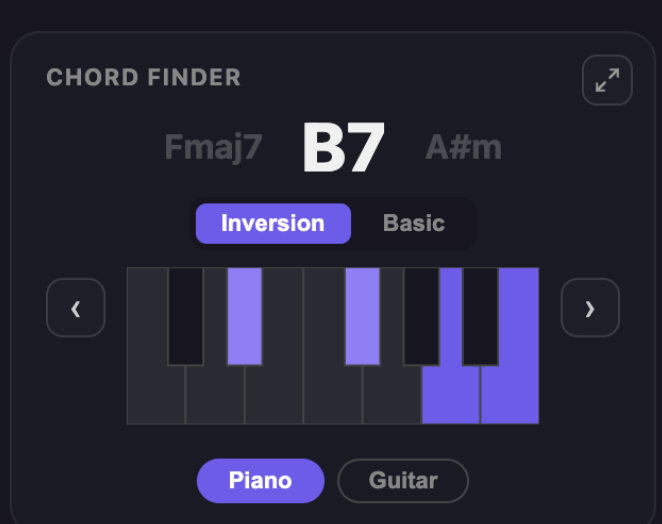
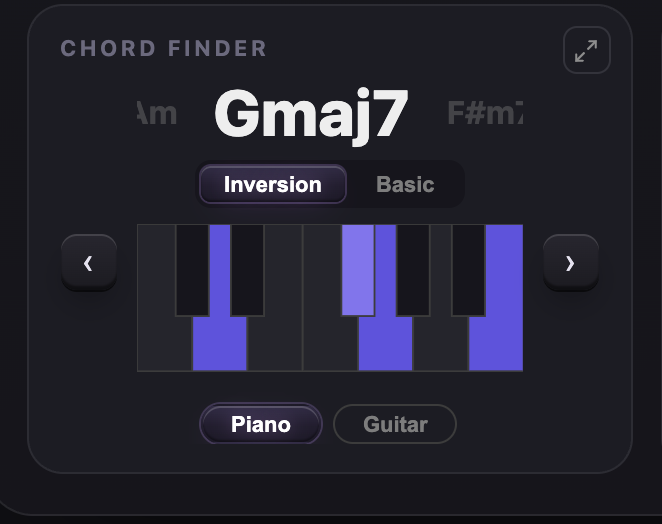
site: vitrin görselleri yeni arayüzden yeniden kırpıldı (6 dil)
"Yakından Bakış" bölümündeki 4 görsel hâlâ eski arayüzü gösteriyordu.
Yeni app-screenshot.png'den birebir kırpıldı (devirdeki kural: uygulama
ekranı için görsel ÜRETME, gerçek arayüzden kırp).

ÖLÇÜLER KASITLI OLARAK AYNI TUTULDU — bpm.png 2017x118, record.png
2017x126, chords.png 662x524, tempo.png 662x477. Sebep: BPM blog yazısı
bpm.png'yi gömüyor ve width/height özniteliği yazıyor; ölçü değişseydi
6 dilde düzen kayardı.

METİN GÜNCELLEMELERİ (görseldeki değerler değişti: 65->103 BPM, B7->Gmaj7):
- ana sayfa alt metinleri 6 dilde + tools/prerender-lang.py FEATURE_ALTS
- BPM blog yazısı 6 dilde: gömülü görseli anlatan "(örneğin 65 BPM)" ve
  bpm/tempo alt metinleri 103'e çekildi
- DOKUNULMADI: aynı yazıdaki "140 BPM'lik şarkı 70 okunabilir, 65 BPM'lik
  balad 130" ve "65 BPM'lik şarkı 32-33'e iner" — bunlar görselle ilgili
  değil, yarım/iki kat tempo anlatımı
- record alt'ındaki "kayıt dalga formu" ifadesi kaldırıldı: yeni karede
  kayıt kanalı boş (bu makinede hiç kayıt yok), dalga formu görünmüyor

Dil tuzakları: DE "65-BPM-Anzeige" tireli yazılmış, IT alt'ı .py içinde
kesme işareti kaçışlı, FR metni tahminimden farklıymış — üçü de
gerçek biçimleriyle düzeltildi.

Render: 1440 ve 375'te doğrulandı; şerit kendi kutusunda kayıyor,
sayfa taşması yok, 4 görsel de yükleniyor.

diff --git a/fr/index.html b/fr/index.html
@@ -226,26 +226,26 @@
 
   <div class="showcase-list">
     <div class="showcase-row">
-      <div class="showcase-scroll"><img src="/assets/features/bpm.png" loading="lazy" alt="Grille de tempo de VoxoMix : le BPM de la chanson est détecté automatiquement, les temps sont alignés sur une grille, avec des boutons demi et double vitesse et un affichage de 65 BPM"></div>
+      <div class="showcase-scroll"><img src="/assets/features/bpm.png" loading="lazy" alt="Grille de tempo de VoxoMix : le BPM de la chanson est détecté automatiquement, les temps sont alignés sur une grille, avec des boutons demi et double vitesse et un affichage de 103 BPM"></div>
       <h3 data-i18n="showcase.bpm.title">BPM automatique et analyse du rythme</h3>
       <p data-i18n="showcase.bpm.desc">Vous n'avez pas à battre le tempo vous-même. VoxoMix trouve le BPM dès le chargement du morceau et aligne les temps sur une grille : le métronome tourne au tempo de la chanson.</p>
     </div>
 
     <div class="showcase-pair">
       <div class="showcase-card">
-        <img src="/assets/features/chords.png" loading="lazy" alt="Recherche d'accords de VoxoMix : l'accord joué affiché en grand (B7), les accords précédent et suivant à côté, les notes surlignées sur un clavier de piano et un sélecteur entre positions de piano et de guitare">
+        <img src="/assets/features/chords.png" loading="lazy" alt="Recherche d'accords de VoxoMix : l'accord joué affiché en grand (Gmaj7), les accords précédent et suivant à côté, les notes surlignées sur un clavier de piano et un sélecteur entre positions de piano et de guitare">
         <h3 data-i18n="showcase.chords.title">Voyez les accords en grand : piano et guitare</h3>
         <p data-i18n="showcase.chords.desc">Les accords défilent pendant la lecture et celui qui arrive s'affiche en grand. Passez des positions de piano à celles de guitare d'un seul geste et agrandissez le panneau des accords en plein écran : il reste lisible de loin pendant que vous jouez.</p>
       </div>
       <div class="showcase-card">
-        <img src="/assets/features/tempo.png" loading="lazy" alt="Panneau métronome de VoxoMix : affichage 65 BPM avec boutons plus et moins et options de vitesse 0,5x, 1x et 2x">
+        <img src="/assets/features/tempo.png" loading="lazy" alt="Panneau métronome de VoxoMix : affichage 103 BPM avec boutons plus et moins et options de vitesse 0,5x, 1x et 2x">
         <h3 data-i18n="showcase.tempo.title">Ralentissez le tempo et jouez tranquillement</h3>
         <p data-i18n="showcase.tempo.desc">Passez le passage difficile à 0,5x pour que vos doigts suivent. La hauteur de la chanson ne bouge pas, et vous revenez à 1x quand vous vous sentez prêt.</p>
       </div>
     </div>
 
     <div class="showcase-row">
-      <div class="showcase-scroll"><img src="/assets/features/record.png" loading="lazy" alt="Piste d'enregistrement de VoxoMix : enregistrez votre prise par-dessus la chanson, suivez-vous au casque, avec la forme d'onde enregistrée et des boutons supprimer et télécharger"></div>
+      <div class="showcase-scroll"><img src="/assets/features/record.png" loading="lazy" alt="Piste d'enregistrement de VoxoMix : enregistrez votre prise par-dessus la chanson, suivez-vous au casque, avec les boutons enregistrer, supprimer et télécharger"></div>
       <h3 data-i18n="showcase.record.title">Enregistrez ce que vous jouez et réécoutez</h3>
       <p data-i18n="showcase.record.desc">Enregistrez votre propre prise par-dessus la chanson. Suivez-vous au casque pendant que vous jouez, réécoutez à la fin, puis supprimez et recommencez si vous voulez.</p>
     </div>

diff --git a/de/index.html b/de/index.html
@@ -226,26 +226,26 @@
 
   <div class="showcase-list">
     <div class="showcase-row">
-      <div class="showcase-scroll"><img src="/assets/features/bpm.png" loading="lazy" alt="Tempo-Raster von VoxoMix: Das BPM des Songs wird automatisch erkannt, die Beats liegen auf einem Raster, mit Tasten für halbe und doppelte Geschwindigkeit und einer 65-BPM-Anzeige"></div>
+      <div class="showcase-scroll"><img src="/assets/features/bpm.png" loading="lazy" alt="Tempo-Raster von VoxoMix: Das BPM des Songs wird automatisch erkannt, die Beats liegen auf einem Raster, mit Tasten für halbe und doppelte Geschwindigkeit und einer 103-BPM-Anzeige"></div>
       <h3 data-i18n="showcase.bpm.title">Automatisches BPM und Rhythmusanalyse</h3>
       <p data-i18n="showcase.bpm.desc">Du musst das Tempo nicht selbst mitklopfen. VoxoMix erkennt das BPM, sobald der Song geladen ist, und legt die Beats auf ein Raster: Das Metronom läuft im Tempo des Songs.</p>
     </div>
 
     <div class="showcase-pair">
       <div class="showcase-card">
-        <img src="/assets/features/chords.png" loading="lazy" alt="Akkordfinder von VoxoMix: der gespielte Akkord groß als B7, davor und danach die Nachbarakkorde, die Töne auf einer Klaviatur hervorgehoben und ein Umschalter zwischen Klavier- und Gitarrengriffen">
+        <img src="/assets/features/chords.png" loading="lazy" alt="Akkordfinder von VoxoMix: der gespielte Akkord groß als Gmaj7, davor und danach die Nachbarakkorde, die Töne auf einer Klaviatur hervorgehoben und ein Umschalter zwischen Klavier- und Gitarrengriffen">
         <h3 data-i18n="showcase.chords.title">Akkorde groß sehen: Klavier und Gitarre</h3>
         <p data-i18n="showcase.chords.desc">Die Akkorde laufen mit dem Song mit, und der nächste wird groß angezeigt. Mit einem Tipp wechselst du zwischen Klavier- und Gitarrengriffen, und mit der Vergrößern-Taste machst du das Akkordfenster zum Vollbild: So bleibt es auch aus der Entfernung gut lesbar, während du spielst.</p>
       </div>
       <div class="showcase-card">
-        <img src="/assets/features/tempo.png" loading="lazy" alt="Metronom-Panel von VoxoMix: 65-BPM-Anzeige mit Plus- und Minus-Tasten und den Geschwindigkeiten 0,5x, 1x und 2x">
+        <img src="/assets/features/tempo.png" loading="lazy" alt="Metronom-Panel von VoxoMix: 103-BPM-Anzeige mit Plus- und Minus-Tasten und den Geschwindigkeiten 0,5x, 1x und 2x">
         <h3 data-i18n="showcase.tempo.title">Tempo verlangsamen und in Ruhe üben</h3>
         <p data-i18n="showcase.tempo.desc">Stell die schwierige Stelle auf 0,5x, damit deine Finger mitkommen. Die Tonhöhe des Songs bleibt, wie sie war, und du gehst zurück auf 1x, wenn du so weit bist.</p>
       </div>
     </div>
 
     <div class="showcase-row">
-      <div class="showcase-scroll"><img src="/assets/features/record.png" loading="lazy" alt="Aufnahmespur von VoxoMix: Nimm deinen eigenen Take über den Song auf, hör dich über Kopfhörer mit, mit aufgenommener Wellenform und Tasten zum Löschen und Herunterladen"></div>
+      <div class="showcase-scroll"><img src="/assets/features/record.png" loading="lazy" alt="Aufnahmespur von VoxoMix: Nimm deinen eigenen Take über den Song auf, hör dich über Kopfhörer mit, mit Tasten zum Aufnehmen, Löschen und Herunterladen"></div>
       <h3 data-i18n="showcase.record.title">Nimm auf, was du spielst, und hör es dir an</h3>
       <p data-i18n="showcase.record.desc">Nimm deinen eigenen Take über den Song auf. Hör dich dabei über Kopfhörer mit, spiel es danach ab und lösche es einfach, wenn du es noch einmal versuchen willst.</p>
     </div>

diff --git a/es/index.html b/es/index.html
@@ -226,26 +226,26 @@
 
   <div class="showcase-list">
     <div class="showcase-row">
-      <div class="showcase-scroll"><img src="/assets/features/bpm.png" loading="lazy" alt="Rejilla de tempo de VoxoMix: los BPM de la canción se detectan automáticamente, los pulsos se colocan en una rejilla, con botones de media y doble velocidad y un indicador de 65 BPM"></div>
+      <div class="showcase-scroll"><img src="/assets/features/bpm.png" loading="lazy" alt="Rejilla de tempo de VoxoMix: los BPM de la canción se detectan automáticamente, los pulsos se colocan en una rejilla, con botones de media y doble velocidad y un indicador de 103 BPM"></div>
       <h3 data-i18n="showcase.bpm.title">BPM automático y análisis del ritmo</h3>
       <p data-i18n="showcase.bpm.desc">No tienes que marcar el tempo a mano. VoxoMix detecta los BPM en cuanto cargas el tema y coloca los pulsos en una rejilla, así el metrónomo suena al mismo tempo que la canción.</p>
     </div>
 
     <div class="showcase-pair">
       <div class="showcase-card">
-        <img src="/assets/features/chords.png" loading="lazy" alt="Buscador de acordes de VoxoMix: el acorde que suena mostrado en grande como B7, los acordes anterior y siguiente al lado, las notas resaltadas en un teclado de piano y un selector entre posiciones de piano y de guitarra">
+        <img src="/assets/features/chords.png" loading="lazy" alt="Buscador de acordes de VoxoMix: el acorde que suena mostrado en grande como Gmaj7, los acordes anterior y siguiente al lado, las notas resaltadas en un teclado de piano y un selector entre posiciones de piano y de guitarra">
         <h3 data-i18n="showcase.chords.title">Ve los acordes en grande: piano y guitarra</h3>
         <p data-i18n="showcase.chords.desc">Los acordes van pasando mientras suena la canción y el siguiente se muestra en grande. Cambia entre las posiciones de piano y de guitarra con un solo toque y amplía el panel de acordes a pantalla completa: se lee bien desde lejos mientras tocas.</p>
       </div>
       <div class="showcase-card">
-        <img src="/assets/features/tempo.png" loading="lazy" alt="Panel de metrónomo de VoxoMix: indicador de 65 BPM con botones de más y menos y opciones de velocidad 0,5x, 1x y 2x">
+        <img src="/assets/features/tempo.png" loading="lazy" alt="Panel de metrónomo de VoxoMix: indicador de 103 BPM con botones de más y menos y opciones de velocidad 0,5x, 1x y 2x">
         <h3 data-i18n="showcase.tempo.title">Baja el tempo y toca con calma</h3>
         <p data-i18n="showcase.tempo.desc">Pon el pasaje difícil a 0,5x para que te dé tiempo con los dedos. El tono de la canción no cambia y vuelves a 1x cuando te sientas listo.</p>
       </div>
     </div>
 
     <div class="showcase-row">
-      <div class="showcase-scroll"><img src="/assets/features/record.png" loading="lazy" alt="Pista de grabación de VoxoMix: graba tu propia toma sobre la canción, escúchate por los auriculares, con la forma de onda grabada y botones de borrar y descargar"></div>
+      <div class="showcase-scroll"><img src="/assets/features/record.png" loading="lazy" alt="Pista de grabación de VoxoMix: graba tu propia toma sobre la canción, escúchate por los auriculares, con botones de grabar, borrar y descargar"></div>
       <h3 data-i18n="showcase.record.title">Graba lo que tocas y escúchalo</h3>
       <p data-i18n="showcase.record.desc">Graba tu propia toma sobre la canción. Escúchate por los auriculares mientras tocas, reprodúcela al terminar y, si no te convence, bórrala y vuelve a intentarlo.</p>
     </div>

diff --git a/it/index.html b/it/index.html
@@ -226,26 +226,26 @@
 
   <div class="showcase-list">
     <div class="showcase-row">
-      <div class="showcase-scroll"><img src="/assets/features/bpm.png" loading="lazy" alt="Griglia del tempo di VoxoMix: i BPM della canzone vengono rilevati automaticamente, i battiti sono disposti su una griglia, con pulsanti per metà e doppia velocità e un indicatore di 65 BPM"></div>
+      <div class="showcase-scroll"><img src="/assets/features/bpm.png" loading="lazy" alt="Griglia del tempo di VoxoMix: i BPM della canzone vengono rilevati automaticamente, i battiti sono disposti su una griglia, con pulsanti per metà e doppia velocità e un indicatore di 103 BPM"></div>
       <h3 data-i18n="showcase.bpm.title">BPM automatico e analisi del ritmo</h3>
       <p data-i18n="showcase.bpm.desc">Non devi battere il tempo a mano. VoxoMix rileva i BPM appena carichi il brano e dispone i battiti su una griglia, così il metronomo va allo stesso tempo della canzone.</p>
     </div>
 
     <div class="showcase-pair">
       <div class="showcase-card">
-        <img src="/assets/features/chords.png" loading="lazy" alt="Ricerca accordi di VoxoMix: l'accordo suonato mostrato in grande come B7, gli accordi precedente e successivo accanto, le note evidenziate su una tastiera di pianoforte e un selettore tra posizioni di piano e di chitarra">
+        <img src="/assets/features/chords.png" loading="lazy" alt="Ricerca accordi di VoxoMix: l'accordo suonato mostrato in grande come Gmaj7, gli accordi precedente e successivo accanto, le note evidenziate su una tastiera di pianoforte e un selettore tra posizioni di piano e di chitarra">
         <h3 data-i18n="showcase.chords.title">Vedi gli accordi in grande: piano e chitarra</h3>
         <p data-i18n="showcase.chords.desc">Gli accordi scorrono mentre la canzone suona e quello successivo viene mostrato in grande. Passi dalle posizioni di piano a quelle di chitarra con un tocco e ingrandisci il pannello degli accordi a schermo intero: resta leggibile anche da lontano mentre suoni.</p>
       </div>
       <div class="showcase-card">
-        <img src="/assets/features/tempo.png" loading="lazy" alt="Pannello metronomo di VoxoMix: indicatore 65 BPM con pulsanti più e meno e opzioni di velocità 0,5x, 1x e 2x">
+        <img src="/assets/features/tempo.png" loading="lazy" alt="Pannello metronomo di VoxoMix: indicatore 103 BPM con pulsanti più e meno e opzioni di velocità 0,5x, 1x e 2x">
         <h3 data-i18n="showcase.tempo.title">Rallenta il tempo e suona con calma</h3>
         <p data-i18n="showcase.tempo.desc">Porta il passaggio difficile a 0,5x per dare tempo alle dita. L'intonazione della canzone resta la stessa e torni a 1x quando ti senti pronto.</p>
       </div>
     </div>
 
     <div class="showcase-row">
-      <div class="showcase-scroll"><img src="/assets/features/record.png" loading="lazy" alt="Traccia di registrazione di VoxoMix: registra la tua esecuzione sopra la canzone, ascoltati in cuffia, con la forma d'onda registrata e i pulsanti elimina e scarica"></div>
+      <div class="showcase-scroll"><img src="/assets/features/record.png" loading="lazy" alt="Traccia di registrazione di VoxoMix: registra la tua esecuzione sopra la canzone, ascoltati in cuffia, con i pulsanti registra, elimina e scarica"></div>
       <h3 data-i18n="showcase.record.title">Registra quello che suoni e riascoltalo</h3>
       <p data-i18n="showcase.record.desc">Registra la tua esecuzione sopra la canzone. Ascoltati in cuffia mentre suoni, riascolta alla fine e, se non ti convince, cancella e riprova.</p>
     </div>

diff --git a/en/index.html b/en/index.html
@@ -226,26 +226,26 @@
 
   <div class="showcase-list">
     <div class="showcase-row">
-      <div class="showcase-scroll"><img src="/assets/features/bpm.png" loading="lazy" alt="VoxoMix tempo grid: the BPM of the song is detected automatically, the beats are laid out on a grid, with half and double speed buttons and a 65 BPM readout"></div>
+      <div class="showcase-scroll"><img src="/assets/features/bpm.png" loading="lazy" alt="VoxoMix tempo grid: the BPM of the song is detected automatically, the beats are laid out on a grid, with half and double speed buttons and a 103 BPM readout"></div>
       <h3 data-i18n="showcase.bpm.title">Automatic BPM and rhythm analysis</h3>
       <p data-i18n="showcase.bpm.desc">You never have to tap out the tempo. VoxoMix finds the BPM the moment the track loads and lays the beats out on a grid, so the metronome runs in time with the song.</p>
     </div>
 
     <div class="showcase-pair">
       <div class="showcase-card">
-        <img src="/assets/features/chords.png" loading="lazy" alt="VoxoMix chord finder: the chord being played shown large as B7, the previous and next chords beside it, the notes highlighted on a piano keyboard, and a toggle between piano and guitar shapes">
+        <img src="/assets/features/chords.png" loading="lazy" alt="VoxoMix chord finder: the chord being played shown large as Gmaj7, the previous and next chords beside it, the notes highlighted on a piano keyboard, and a toggle between piano and guitar shapes">
         <h3 data-i18n="showcase.chords.title">See the chords big — piano and guitar</h3>
         <p data-i18n="showcase.chords.desc">Chords scroll past as the song plays, and the one you need next is shown large. Switch between piano and guitar shapes with a single tap, and expand the chord panel to full screen so it stays readable from across the room while you play.</p>
       </div>
       <div class="showcase-card">
-        <img src="/assets/features/tempo.png" loading="lazy" alt="VoxoMix metronome panel: 65 BPM readout with plus and minus buttons and 0.5x, 1x and 2x speed options">
+        <img src="/assets/features/tempo.png" loading="lazy" alt="VoxoMix metronome panel: 103 BPM readout with plus and minus buttons and 0.5x, 1x and 2x speed options">
         <h3 data-i18n="showcase.tempo.title">Slow the tempo down and play in comfort</h3>
         <p data-i18n="showcase.tempo.desc">Drop a hard passage to 0.5x so your fingers can keep up. The pitch of the song stays where it was, and you go back to 1x when you feel ready.</p>
       </div>
     </div>
 
     <div class="showcase-row">
-      <div class="showcase-scroll"><img src="/assets/features/record.png" loading="lazy" alt="VoxoMix record track: record your own take over the song, monitor through headphones, see the recorded waveform, with delete and download buttons"></div>
+      <div class="showcase-scroll"><img src="/assets/features/record.png" loading="lazy" alt="VoxoMix record track: record your own take over the song, monitor through headphones, with record, delete and download buttons"></div>
       <h3 data-i18n="showcase.record.title">Record what you play and listen back</h3>
       <p data-i18n="showcase.record.desc">Record your own take over the song. Monitor yourself through headphones as you go, listen back when you are done, then delete it and try again if you want.</p>
     </div>

diff --git a/index.html b/index.html
@@ -240,26 +240,26 @@
 
   <div class="showcase-list">
     <div class="showcase-row">
-      <div class="showcase-scroll"><img src="assets/features/bpm.png" loading="lazy" alt="VoxoMix tempo ızgarası: şarkının BPM'i otomatik bulunur, vuruşlar ızgaraya dizilir, yarım ve iki kat hız düğmeleri ile 65 BPM göstergesi"></div>
+      <div class="showcase-scroll"><img src="assets/features/bpm.png" loading="lazy" alt="VoxoMix tempo ızgarası: şarkının BPM'i otomatik bulunur, vuruşlar ızgaraya dizilir, yarım ve iki kat hız düğmeleri ile 103 BPM göstergesi"></div>
       <h3 data-i18n="showcase.bpm.title">Otomatik BPM ve ritim analizi</h3>
       <p data-i18n="showcase.bpm.desc">Şarkının hızını sen ölçme. VoxoMix parçayı açar açmaz BPM'i bulur, vuruşları ızgaraya dizer; metronomu şarkıyla aynı tempoda çalıştırırsın.</p>
     </div>
 
     <div class="showcase-pair">
       <div class="showcase-card">
-        <img src="assets/features/chords.png" loading="lazy" alt="VoxoMix akor bulucu: çalınan akor B7 büyük harflerle, önceki ve sonraki akorlar yanında, piyano klavyesi üzerinde basılan tuşlar ve piyano ile gitar arasında geçiş düğmesi">
+        <img src="assets/features/chords.png" loading="lazy" alt="VoxoMix akor bulucu: çalınan akor Gmaj7 büyük harflerle, önceki ve sonraki akorlar yanında, piyano klavyesi üzerinde basılan tuşlar ve piyano ile gitar arasında geçiş düğmesi">
         <h3 data-i18n="showcase.chords.title">Akorları büyük gör — piyano ve gitar</h3>
         <p data-i18n="showcase.chords.desc">Akorlar şarkı çalarken sırayla akar; sıradaki akoru büyük harflerle görürsün. Piyano ve gitar basışları arasında tek dokunuşla geçersin, büyütme düğmesiyle akor penceresini tam ekran yaparsın — enstrümanın başındayken uzaktan da rahat okunur.</p>
       </div>
       <div class="showcase-card">
-        <img src="assets/features/tempo.png" loading="lazy" alt="VoxoMix metronom paneli: 65 BPM göstergesi, artı eksi düğmeleri ve 0,5x, 1x, 2x hız seçenekleri">
+        <img src="assets/features/tempo.png" loading="lazy" alt="VoxoMix metronom paneli: 103 BPM göstergesi, artı eksi düğmeleri ve 0,5x, 1x, 2x hız seçenekleri">
         <h3 data-i18n="showcase.tempo.title">Tempoyu yavaşlat, rahat çalış</h3>
         <p data-i18n="showcase.tempo.desc">Zor bölümü 0,5x'e düşür, parmakların yetişsin. Şarkının tonu bozulmaz; hazır hissettiğinde 1x'e geri dönersin.</p>
       </div>
     </div>
 
     <div class="showcase-row">
-      <div class="showcase-scroll"><img src="assets/features/record.png" loading="lazy" alt="VoxoMix kayıt kanalı: şarkının üzerine kendi çalışını kaydetme, kulaklıktan takip, kayıt dalga formu, silme ve indirme düğmeleri"></div>
+      <div class="showcase-scroll"><img src="assets/features/record.png" loading="lazy" alt="VoxoMix kayıt kanalı: şarkının üzerine kendi çalışını kaydetme, kulaklıktan takip, kayıt, silme ve indirme düğmeleri"></div>
       <h3 data-i18n="showcase.record.title">Çaldığını kaydet, geri dinle</h3>
       <p data-i18n="showcase.record.desc">Kendi çalışını şarkının üstüne kaydet. Kulaklıktan kendini duyarak takip et, bitince geri dinle; beğenmezsen sil ve yeniden dene.</p>
     </div>

diff --git a/es/blog/como-saber-el-bpm-de-una-cancion.html b/es/blog/como-saber-el-bpm-de-una-cancion.html
@@ -274,9 +274,9 @@
 
     <h3>2. Lee el BPM en la rejilla de tempo</h3>
 
-    <p>Cuando termina el análisis, los pulsos se alinean en la franja <strong>Tempo Grid</strong> de la parte superior y el BPM de la canción aparece a la derecha (por ejemplo, <strong>65 BPM</strong>). Encima de la rejilla van los números de compás, así que siempre sabes en qué punto de la canción estás.</p>
+    <p>Cuando termina el análisis, los pulsos se alinean en la franja <strong>Tempo Grid</strong> de la parte superior y el BPM de la canción aparece a la derecha (por ejemplo, <strong>103 BPM</strong>). Encima de la rejilla van los números de compás, así que siempre sabes en qué punto de la canción estás.</p>
 
-    <img src="/assets/features/bpm.png" alt="Franja Tempo Grid de VoxoMix: pulsos alineados en la cuadrícula, números de compás, botones ½× y 2× e indicador de 65 BPM" width="2017" height="118" loading="lazy">
+    <img src="/assets/features/bpm.png" alt="Franja Tempo Grid de VoxoMix: pulsos alineados en la cuadrícula, números de compás, botones ½× y 2× e indicador de 103 BPM" width="2017" height="118" loading="lazy">
 
     <h3>3. Corrígelo si sale a la mitad o al doble</h3>
 
@@ -294,7 +294,7 @@
 
     <p>Para ralentizar la parte difícil, arrastra hacia la izquierda el <strong>control deslizante de velocidad</strong> del panel Metronome; va de 0,5 a 1,5 y, en el extremo izquierdo, la canción suena a la mitad de velocidad. La altura no cambia y el metrónomo sigue el nuevo tempo: una canción a 65 BPM baja a unos 32–33 BPM. Con <strong>−</strong> y <strong>+</strong> cambias el tempo de BPM en BPM, y con <strong>Reset to Original</strong> vuelves al tempo original. Los botones <strong>0.5x / 1x / 2x</strong> del panel no cambian la velocidad: eligen la subdivisión del metrónomo; 0.5x hace clic cada dos pulsos y 2x, dos veces por pulso.</p>
 
-    <img src="/assets/features/tempo.png" alt="Panel Metronome de VoxoMix: 65 BPM, botones − y +, Reset to Original, control deslizante de velocidad, botones de subdivisión 0.5x, 1x y 2x y botón de reproducción" width="662" height="477" loading="lazy">
+    <img src="/assets/features/tempo.png" alt="Panel Metronome de VoxoMix: 103 BPM, botones − y +, Reset to Original, control deslizante de velocidad, botones de subdivisión 0.5x, 1x y 2x y botón de reproducción" width="662" height="477" loading="lazy">
 
     <h3>6. Toca tu parte con el metrónomo</h3>
 

diff --git a/fr/blog/trouver-le-bpm-dune-chanson.html b/fr/blog/trouver-le-bpm-dune-chanson.html
@@ -274,9 +274,9 @@
 
     <h3>2. Lisez le BPM sur la grille de tempo</h3>
 
-    <p>Une fois l'analyse terminée, les temps s'alignent sur la bande <strong>Tempo Grid</strong> en haut de l'écran, et le BPM de la chanson s'affiche à droite (par exemple <strong>65 BPM</strong>). Les numéros de mesure défilent en haut de la grille : vous savez toujours où vous en êtes dans la chanson.</p>
+    <p>Une fois l'analyse terminée, les temps s'alignent sur la bande <strong>Tempo Grid</strong> en haut de l'écran, et le BPM de la chanson s'affiche à droite (par exemple <strong>103 BPM</strong>). Les numéros de mesure défilent en haut de la grille : vous savez toujours où vous en êtes dans la chanson.</p>
 
-    <img src="/assets/features/bpm.png" alt="Bandeau Tempo Grid de VoxoMix : temps alignés sur la grille, numéros de mesure, boutons ½× et 2× et affichage 65 BPM" width="2017" height="118" loading="lazy">
+    <img src="/assets/features/bpm.png" alt="Bandeau Tempo Grid de VoxoMix : temps alignés sur la grille, numéros de mesure, boutons ½× et 2× et affichage 103 BPM" width="2017" height="118" loading="lazy">
 
     <h3>3. Corrigez si le tempo est lu à moitié ou au double</h3>
 
@@ -294,7 +294,7 @@
 
     <p>Pour ralentir le passage difficile, faites glisser vers la gauche le <strong>curseur de vitesse</strong> du panneau Metronome ; il va de 0,5 à 1,5 et, tout à gauche, la chanson passe à mi-vitesse. La hauteur ne change pas et le métronome suit le nouveau tempo : une chanson à 65 BPM descend à environ 32–33 BPM. <strong>−</strong> et <strong>+</strong> modifient le tempo BPM par BPM, et <strong>Reset to Original</strong> ramène au tempo d'origine. Les boutons <strong>0.5x / 1x / 2x</strong> du panneau ne changent pas la vitesse : ils règlent la subdivision du métronome ; 0.5x clique un temps sur deux, 2x deux fois par temps.</p>
 
-    <img src="/assets/features/tempo.png" alt="Panneau Metronome de VoxoMix : 65 BPM, boutons − et +, Reset to Original, curseur de vitesse, boutons de subdivision 0.5x, 1x et 2x et bouton lecture" width="662" height="477" loading="lazy">
+    <img src="/assets/features/tempo.png" alt="Panneau Metronome de VoxoMix : 103 BPM, boutons − et +, Reset to Original, curseur de vitesse, boutons de subdivision 0.5x, 1x et 2x et bouton lecture" width="662" height="477" loading="lazy">
 
     <h3>6. Jouez votre partie avec le métronome</h3>
 

diff --git a/it/blog/trovare-i-bpm-di-una-canzone.html b/it/blog/trovare-i-bpm-di-una-canzone.html
@@ -274,9 +274,9 @@
 
     <h3>2. Leggi i BPM sulla griglia del tempo</h3>
 
-    <p>Quando l'analisi è finita, i battiti si allineano sulla striscia <strong>Tempo Grid</strong> in alto e i BPM della canzone compaiono sulla destra (per esempio <strong>65 BPM</strong>). In cima alla griglia scorrono i numeri delle battute, così sai sempre in che punto della canzone ti trovi.</p>
+    <p>Quando l'analisi è finita, i battiti si allineano sulla striscia <strong>Tempo Grid</strong> in alto e i BPM della canzone compaiono sulla destra (per esempio <strong>103 BPM</strong>). In cima alla griglia scorrono i numeri delle battute, così sai sempre in che punto della canzone ti trovi.</p>
 
-    <img src="/assets/features/bpm.png" alt="Barra Tempo Grid di VoxoMix: battiti allineati sulla griglia, numeri di battuta, pulsanti ½× e 2× e indicatore 65 BPM" width="2017" height="118" loading="lazy">
+    <img src="/assets/features/bpm.png" alt="Barra Tempo Grid di VoxoMix: battiti allineati sulla griglia, numeri di battuta, pulsanti ½× e 2× e indicatore 103 BPM" width="2017" height="118" loading="lazy">
 
     <h3>3. Correggi se legge la metà o il doppio</h3>
 
@@ -294,7 +294,7 @@
 
     <p>Per rallentare il passaggio difficile, trascina verso sinistra il <strong>cursore della velocità</strong> nel pannello Metronome; va da 0,5 a 1,5 e, tutto a sinistra, la canzone suona a metà velocità. L'altezza del suono resta la stessa e il metronomo segue il nuovo tempo: una canzone a 65 BPM scende a circa 32-33 BPM. Con <strong>−</strong> e <strong>+</strong> cambi il tempo di un BPM alla volta e con <strong>Reset to Original</strong> torni al tempo originale. I pulsanti <strong>0.5x / 1x / 2x</strong> del pannello non cambiano la velocità: scelgono la suddivisione del metronomo; 0.5x fa clic un battito sì e uno no, 2x due volte per battito.</p>
 
-    <img src="/assets/features/tempo.png" alt="Pannello Metronome di VoxoMix: 65 BPM, pulsanti − e +, Reset to Original, cursore della velocità, pulsanti di suddivisione 0.5x, 1x e 2x e pulsante play" width="662" height="477" loading="lazy">
+    <img src="/assets/features/tempo.png" alt="Pannello Metronome di VoxoMix: 103 BPM, pulsanti − e +, Reset to Original, cursore della velocità, pulsanti di suddivisione 0.5x, 1x e 2x e pulsante play" width="662" height="477" loading="lazy">
 
     <h3>6. Suona la tua parte con il metronomo</h3>
 

diff --git a/de/blog/bpm-eines-songs-herausfinden.html b/de/blog/bpm-eines-songs-herausfinden.html
@@ -274,9 +274,9 @@
 
     <h3>2. BPM im Tempo-Raster ablesen</h3>
 
-    <p>Sobald die Analyse fertig ist, reihen sich die Schläge oben im Streifen <strong>Tempo Grid</strong> auf, und rechts erscheint die BPM-Zahl des Songs (zum Beispiel <strong>65 BPM</strong>). Oben im Raster laufen die Taktnummern mit, damit du immer weißt, wo du gerade im Song bist.</p>
+    <p>Sobald die Analyse fertig ist, reihen sich die Schläge oben im Streifen <strong>Tempo Grid</strong> auf, und rechts erscheint die BPM-Zahl des Songs (zum Beispiel <strong>103 BPM</strong>). Oben im Raster laufen die Taktnummern mit, damit du immer weißt, wo du gerade im Song bist.</p>
 
-    <img src="/assets/features/bpm.png" alt="VoxoMix-Leiste Tempo Grid: Schläge im Raster, Taktnummern, ½×- und 2×-Tasten und eine Anzeige von 65 BPM" width="2017" height="118" loading="lazy">
+    <img src="/assets/features/bpm.png" alt="VoxoMix-Leiste Tempo Grid: Schläge im Raster, Taktnummern, ½×- und 2×-Tasten und eine Anzeige von 103 BPM" width="2017" height="118" loading="lazy">
 
     <h3>3. Korrigieren, wenn halb oder doppelt erkannt wurde</h3>
 
@@ -294,7 +294,7 @@
 
     <p>Um die schwere Stelle zu verlangsamen, ziehst du den <strong>Geschwindigkeitsregler</strong> im Panel Metronome nach links; er reicht von 0,5 bis 1,5, ganz links läuft der Song mit halber Geschwindigkeit. Die Tonhöhe bleibt gleich, und das Metronom folgt dem neuen Tempo: Ein Song mit 65 BPM fällt auf etwa 32–33 BPM. Mit <strong>−</strong> und <strong>+</strong> änderst du das Tempo in Einzelschritten, mit <strong>Reset to Original</strong> kehrst du zum Originaltempo zurück. Die Tasten <strong>0.5x / 1x / 2x</strong> im Panel ändern nicht die Geschwindigkeit, sondern die Unterteilung des Metronoms: 0.5x klickt nur jeden zweiten Schlag, 2x zweimal pro Schlag.</p>
 
-    <img src="/assets/features/tempo.png" alt="VoxoMix-Panel Metronome: 65 BPM, − und +, Reset to Original, Geschwindigkeitsregler, Unterteilungstasten 0.5x, 1x und 2x und Wiedergabetaste" width="662" height="477" loading="lazy">
+    <img src="/assets/features/tempo.png" alt="VoxoMix-Panel Metronome: 103 BPM, − und +, Reset to Original, Geschwindigkeitsregler, Unterteilungstasten 0.5x, 1x und 2x und Wiedergabetaste" width="662" height="477" loading="lazy">
 
     <h3>6. Deinen eigenen Part zum Metronom spielen</h3>
 

diff --git a/blog/sarkinin-bpmini-bulma.html b/blog/sarkinin-bpmini-bulma.html
@@ -274,9 +274,9 @@
 
     <h3>2. Tempo ızgarasında BPM'i oku</h3>
 
-    <p>Analiz bitince üstteki <strong>Tempo Grid</strong> şeridinde vuruşlar ızgaraya dizilir ve sağda şarkının BPM'i görünür (örneğin <strong>65 BPM</strong>). Ölçü numaraları ızgaranın üstünde akar; şarkının neresinde olduğunu oradan takip edersin.</p>
+    <p>Analiz bitince üstteki <strong>Tempo Grid</strong> şeridinde vuruşlar ızgaraya dizilir ve sağda şarkının BPM'i görünür (örneğin <strong>103 BPM</strong>). Ölçü numaraları ızgaranın üstünde akar; şarkının neresinde olduğunu oradan takip edersin.</p>
 
-    <img src="/assets/features/bpm.png" alt="VoxoMix Tempo Grid şeridi: ızgaraya dizilmiş vuruşlar, ölçü numaraları, ½× ve 2× düğmeleri ve 65 BPM göstergesi" width="2017" height="118" loading="lazy">
+    <img src="/assets/features/bpm.png" alt="VoxoMix Tempo Grid şeridi: ızgaraya dizilmiş vuruşlar, ölçü numaraları, ½× ve 2× düğmeleri ve 103 BPM göstergesi" width="2017" height="118" loading="lazy">
 
     <h3>3. Yarım ya da iki kat çıktıysa düzelt</h3>
 
@@ -294,7 +294,7 @@
 
     <p>Zor bölümü yavaşlatmak için Metronom panelindeki <strong>hız sürgüsünü</strong> sola çek; sürgü 0,5 ile 1,5 arasında çalışır, en solda şarkı yarı hıza iner. Ton bozulmaz, metronom da yeni tempoya uyar: 65 BPM'lik bir şarkı 32-33 BPM civarına iner. <strong>−</strong> ve <strong>+</strong> düğmeleri tempoyu birer BPM değiştirir, <strong>Reset to Original</strong> ile orijinal tempoya dönersin. Paneldeki <strong>0.5x / 1x / 2x</strong> düğmeleri hızı değil, metronomun alt bölümünü seçer: 0.5x iki vuruşta bir, 2x her vuruşta iki tık verir.</p>
 
-    <img src="/assets/features/tempo.png" alt="VoxoMix Metronome paneli: 65 BPM, − ve + düğmeleri, Reset to Original, hız sürgüsü, 0.5x, 1x ve 2x alt bölüm düğmeleri ve oynat düğmesi" width="662" height="477" loading="lazy">
+    <img src="/assets/features/tempo.png" alt="VoxoMix Metronome paneli: 103 BPM, − ve + düğmeleri, Reset to Original, hız sürgüsü, 0.5x, 1x ve 2x alt bölüm düğmeleri ve oynat düğmesi" width="662" height="477" loading="lazy">
 
     <h3>6. Kendi partini metronomla birlikte çal</h3>
 

diff --git a/en/blog/how-to-find-the-bpm-of-a-song.html b/en/blog/how-to-find-the-bpm-of-a-song.html
@@ -274,9 +274,9 @@
 
     <h3>2. Read the BPM on the tempo grid</h3>
 
-    <p>When the analysis finishes, the beats line up on the <strong>Tempo Grid</strong> strip at the top and the song's BPM appears on the right (for example <strong>65 BPM</strong>). Bar numbers run along the top of the grid so you always know where you are in the song.</p>
+    <p>When the analysis finishes, the beats line up on the <strong>Tempo Grid</strong> strip at the top and the song's BPM appears on the right (for example <strong>103 BPM</strong>). Bar numbers run along the top of the grid so you always know where you are in the song.</p>
 
-    <img src="/assets/features/bpm.png" alt="VoxoMix Tempo Grid strip: beats lined up on the grid, bar numbers, ½× and 2× buttons and a 65 BPM readout" width="2017" height="118" loading="lazy">
+    <img src="/assets/features/bpm.png" alt="VoxoMix Tempo Grid strip: beats lined up on the grid, bar numbers, ½× and 2× buttons and a 103 BPM readout" width="2017" height="118" loading="lazy">
 
     <h3>3. Fix it if it reads half or double</h3>
 
@@ -294,7 +294,7 @@
 
     <p>To slow down the hard part, drag the <strong>speed slider</strong> on the Metronome panel to the left; it runs from 0.5 to 1.5, and at the far left the song plays at half speed. The pitch stays the same and the metronome follows the new tempo: a 65 BPM song drops to around 32–33 BPM. <strong>−</strong> and <strong>+</strong> change the tempo one BPM at a time, and <strong>Reset to Original</strong> takes you back to the original tempo. The <strong>0.5x / 1x / 2x</strong> buttons on the panel do not change the speed; they set the metronome's subdivision: 0.5x clicks every other beat, 2x clicks twice per beat.</p>
 
-    <img src="/assets/features/tempo.png" alt="VoxoMix Metronome panel: 65 BPM, − and + buttons, Reset to Original, speed slider, 0.5x, 1x and 2x subdivision buttons and a play button" width="662" height="477" loading="lazy">
+    <img src="/assets/features/tempo.png" alt="VoxoMix Metronome panel: 103 BPM, − and + buttons, Reset to Original, speed slider, 0.5x, 1x and 2x subdivision buttons and a play button" width="662" height="477" loading="lazy">
 
     <h3>6. Play your own part with the metronome</h3>
 
